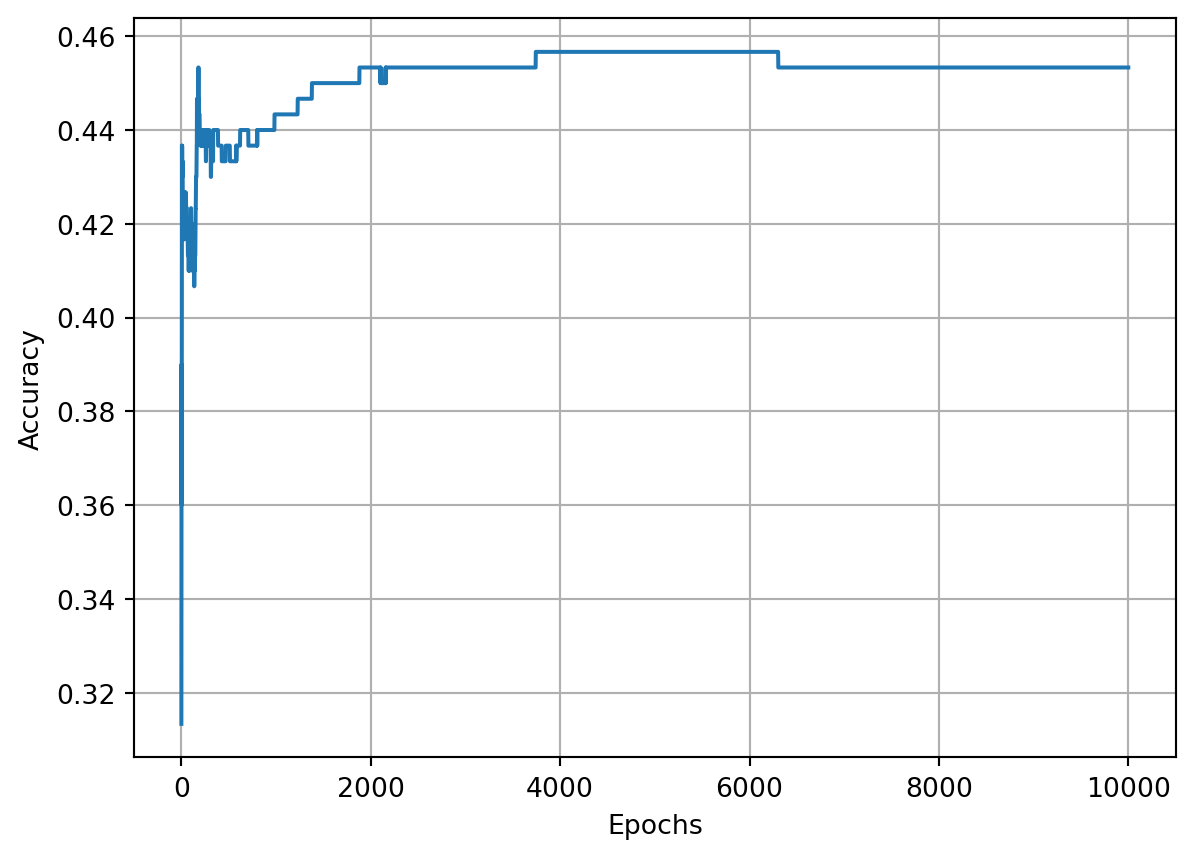
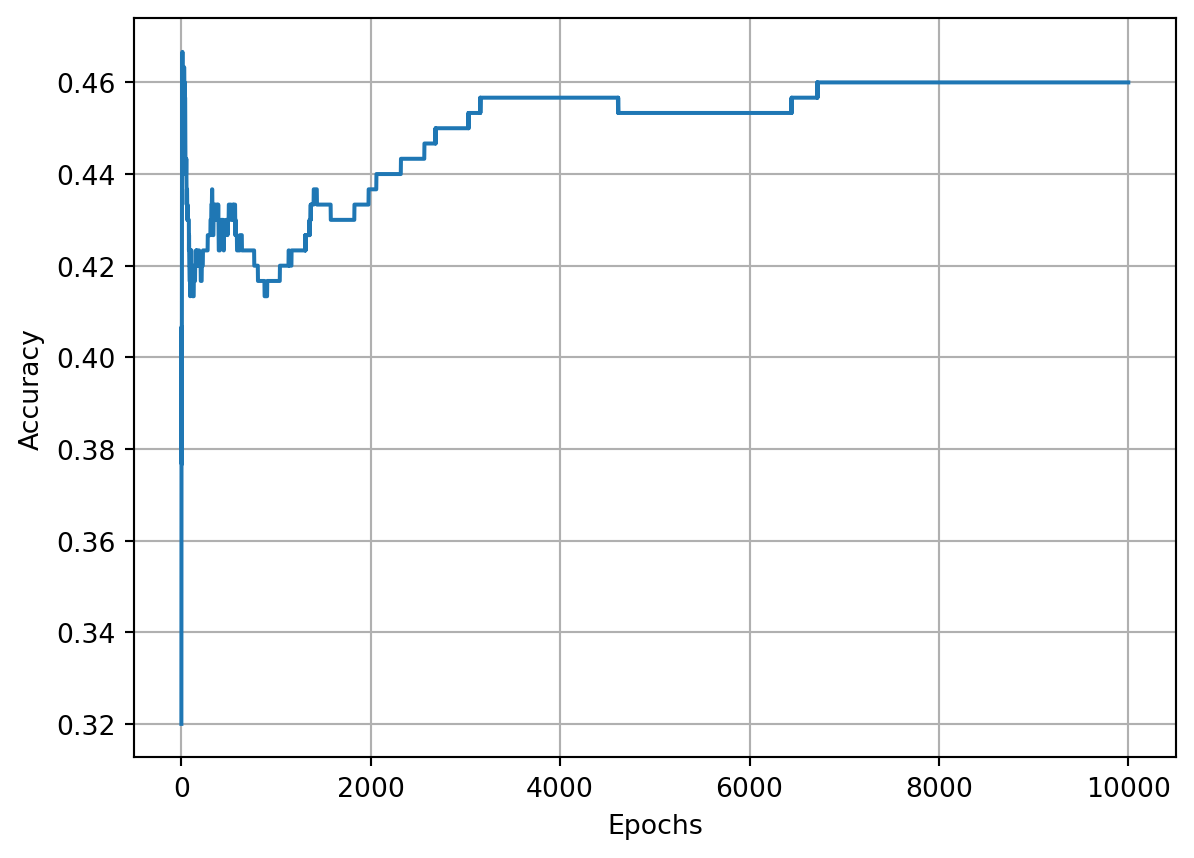
optimization

diff --git a/docs/posts/optimization_algorithms/index.html b/docs/posts/optimization_algorithms/index.html
@@ -201,7 +201,10 @@ pre > code.sourceCode > span > a:first-child::before { text-decoration: underlin
   <li><a href="#adding-momentum-to-the-sgdoptimizer-class" id="toc-adding-momentum-to-the-sgdoptimizer-class" class="nav-link" data-scroll-target="#adding-momentum-to-the-sgdoptimizer-class">Adding momentum to the <code>SGDOptimizer</code> class</a>
   <ul class="collapse">
   <li><a href="#adagrad" id="toc-adagrad" class="nav-link" data-scroll-target="#adagrad">AdaGrad</a></li>
-  <li><a href="#rmsprop" id="toc-rmsprop" class="nav-link" data-scroll-target="#rmsprop">RMSProp</a></li>
+  <li><a href="#rmsprop" id="toc-rmsprop" class="nav-link" data-scroll-target="#rmsprop">RMSProp</a>
+  <ul class="collapse">
+  <li><a href="#the-algorithm" id="toc-the-algorithm" class="nav-link" data-scroll-target="#the-algorithm">The Algorithm</a></li>
+  </ul></li>
   </ul></li>
   </ul>
 </nav>
@@ -645,7 +648,7 @@ w_{k+1} := w_k - \alpha_k \nabla \mathcal{L}(w_{k}) = w_k - \alpha_k \nabla L_i(
 <span id="cb11-25"><a href="#cb11-25" aria-hidden="true" tabindex="-1"></a>optimizer.update_params(dense1)</span>
 <span id="cb11-26"><a href="#cb11-26" aria-hidden="true" tabindex="-1"></a>optimizer.update_params(dense2)</span></code><button title="Copy to Clipboard" class="code-copy-button"><i class="bi"></i></button></pre></div>
 <div class="cell-output cell-output-stdout">
-<pre><code>Loss = 1.0986570280936756</code></pre>
+<pre><code>Loss = 1.098612317106315</code></pre>
 </div>
 </div>
 <p>This is everything we need to train our model!</p>
@@ -703,16 +706,16 @@ w_{k+1} := w_k - \alpha_k \nabla \mathcal{L}(w_{k}) = w_k - \alpha_k \nabla L_i(
 <span id="cb13-49"><a href="#cb13-49" aria-hidden="true" tabindex="-1"></a>    optimizer.update_params(dense2)</span></code><button title="Copy to Clipboard" class="code-copy-button"><i class="bi"></i></button></pre></div>
 <div class="cell-output cell-output-stdout">
 <pre><code>Epoch: 0, Loss:  1.099
-Epoch: 1000, Loss:  1.019
-Epoch: 2000, Loss:  0.894
-Epoch: 3000, Loss:  0.844
-Epoch: 4000, Loss:  0.786
-Epoch: 5000, Loss:  0.705
-Epoch: 6000, Loss:  0.682
-Epoch: 7000, Loss:  0.645
-Epoch: 8000, Loss:  0.515
-Epoch: 9000, Loss:  0.488
-Epoch: 10000, Loss:  0.458</code></pre>
+Epoch: 1000, Loss:  1.029
+Epoch: 2000, Loss:  0.921
+Epoch: 3000, Loss:  0.800
+Epoch: 4000, Loss:  0.947
+Epoch: 5000, Loss:  0.559
+Epoch: 6000, Loss:  0.546
+Epoch: 7000, Loss:  0.488
+Epoch: 8000, Loss:  0.451
+Epoch: 9000, Loss:  0.409
+Epoch: 10000, Loss:  0.424</code></pre>
 </div>
 </div>
 <p>Our neural network mostly stays stuck at around a loss of <span class="math inline">\(1.0\)</span> and later around <span class="math inline">\(0.85\)</span>-<span class="math inline">\(0.90\)</span> Given that this loss didn’t decrease much, we can assume that this learning rate being too high, also caused the model to get stuck in a <strong>local minimum</strong>, which we’ll learn more about soon. Iterating over more epochs, doesn’t seem helpful at this point, which tells us that we’re likely stuck with our optimization. Does this mean that this is the most we can get from our optimizer on this dataset?</p>
@@ -868,17 +871,17 @@ Epoch: 10000, Loss:  0.458</code></pre>
 <div class="cell" data-execution_count="16">
 <div class="sourceCode cell-code" id="cb20"><pre class="sourceCode python code-with-copy"><code class="sourceCode python"><span id="cb20-1"><a href="#cb20-1" aria-hidden="true" tabindex="-1"></a>acc_vals, loss_vals, lr_vals <span class="op">=</span> train(decay<span class="op">=</span><span class="fl">0.01</span>)</span></code><button title="Copy to Clipboard" class="code-copy-button"><i class="bi"></i></button></pre></div>
 <div class="cell-output cell-output-stdout">
-<pre><code>epoch: 0,                 acc : 0.313,                 loss:  1.099,                 lr : 1.0
-epoch: 1000,                 acc : 0.443,                 loss:  1.066,                 lr : 0.09099181073703366
-epoch: 2000,                 acc : 0.453,                 loss:  1.066,                 lr : 0.047641734159123386
-epoch: 3000,                 acc : 0.453,                 loss:  1.066,                 lr : 0.03226847370119393
-epoch: 4000,                 acc : 0.457,                 loss:  1.065,                 lr : 0.02439619419370578
-epoch: 5000,                 acc : 0.457,                 loss:  1.065,                 lr : 0.019611688566385566
-epoch: 6000,                 acc : 0.457,                 loss:  1.065,                 lr : 0.016396130513198885
-epoch: 7000,                 acc : 0.453,                 loss:  1.065,                 lr : 0.014086491055078181
-epoch: 8000,                 acc : 0.453,                 loss:  1.065,                 lr : 0.012347203358439314
-epoch: 9000,                 acc : 0.453,                 loss:  1.065,                 lr : 0.010990218705352238
-epoch: 10000,                 acc : 0.453,                 loss:  1.065,                 lr : 0.009901970492127933</code></pre>
+<pre><code>epoch: 0,                 acc : 0.320,                 loss:  1.099,                 lr : 1.0
+epoch: 1000,                 acc : 0.417,                 loss:  1.071,                 lr : 0.09099181073703366
+epoch: 2000,                 acc : 0.437,                 loss:  1.070,                 lr : 0.047641734159123386
+epoch: 3000,                 acc : 0.450,                 loss:  1.070,                 lr : 0.03226847370119393
+epoch: 4000,                 acc : 0.457,                 loss:  1.070,                 lr : 0.02439619419370578
+epoch: 5000,                 acc : 0.453,                 loss:  1.070,                 lr : 0.019611688566385566
+epoch: 6000,                 acc : 0.453,                 loss:  1.069,                 lr : 0.016396130513198885
+epoch: 7000,                 acc : 0.460,                 loss:  1.069,                 lr : 0.014086491055078181
+epoch: 8000,                 acc : 0.460,                 loss:  1.069,                 lr : 0.012347203358439314
+epoch: 9000,                 acc : 0.460,                 loss:  1.069,                 lr : 0.010990218705352238
+epoch: 10000,                 acc : 0.460,                 loss:  1.069,                 lr : 0.009901970492127933</code></pre>
 </div>
 </div>
 <div class="cell" data-execution_count="17">
@@ -905,7 +908,7 @@ epoch: 10000,                 acc : 0.453,                 loss:  1.065,        
 <span id="cb23-5"><a href="#cb23-5" aria-hidden="true" tabindex="-1"></a>plt.show()</span></code><button title="Copy to Clipboard" class="code-copy-button"><i class="bi"></i></button></pre></div>
 </details>
 <div class="cell-output cell-output-display">
-<p><img src="index_files/figure-html/cell-19-output-1.png" width="606" height="431"></p>
+<p><img src="index_files/figure-html/cell-19-output-1.png" width="606" height="433"></p>
 </div>
 </div>
 <div class="cell" data-execution_count="19">
@@ -925,17 +928,17 @@ epoch: 10000,                 acc : 0.453,                 loss:  1.065,        
 <div class="cell" data-execution_count="20">
 <div class="sourceCode cell-code" id="cb25"><pre class="sourceCode python code-with-copy"><code class="sourceCode python"><span id="cb25-1"><a href="#cb25-1" aria-hidden="true" tabindex="-1"></a>acc_vals, loss_vals, lr_vals <span class="op">=</span> train(decay<span class="op">=</span><span class="fl">1e-3</span>)</span></code><button title="Copy to Clipboard" class="code-copy-button"><i class="bi"></i></button></pre></div>
 <div class="cell-output cell-output-stdout">
-<pre><code>epoch: 0,                 acc : 0.307,                 loss:  1.099,                 lr : 1.0
-epoch: 1000,                 acc : 0.420,                 loss:  1.063,                 lr : 0.5002501250625312
-epoch: 2000,                 acc : 0.473,                 loss:  1.029,                 lr : 0.33344448149383127
-epoch: 3000,                 acc : 0.517,                 loss:  0.968,                 lr : 0.25006251562890724
-epoch: 4000,                 acc : 0.577,                 loss:  0.908,                 lr : 0.2000400080016003
-epoch: 5000,                 acc : 0.593,                 loss:  0.881,                 lr : 0.16669444907484582
-epoch: 6000,                 acc : 0.620,                 loss:  0.851,                 lr : 0.1428775539362766
-epoch: 7000,                 acc : 0.650,                 loss:  0.817,                 lr : 0.12501562695336915
-epoch: 8000,                 acc : 0.663,                 loss:  0.786,                 lr : 0.11112345816201799
-epoch: 9000,                 acc : 0.673,                 loss:  0.754,                 lr : 0.1000100010001
-epoch: 10000,                 acc : 0.680,                 loss:  0.723,                 lr : 0.09091735612328393</code></pre>
+<pre><code>epoch: 0,                 acc : 0.317,                 loss:  1.099,                 lr : 1.0
+epoch: 1000,                 acc : 0.413,                 loss:  1.058,                 lr : 0.5002501250625312
+epoch: 2000,                 acc : 0.420,                 loss:  1.052,                 lr : 0.33344448149383127
+epoch: 3000,                 acc : 0.447,                 loss:  1.034,                 lr : 0.25006251562890724
+epoch: 4000,                 acc : 0.487,                 loss:  1.000,                 lr : 0.2000400080016003
+epoch: 5000,                 acc : 0.507,                 loss:  0.966,                 lr : 0.16669444907484582
+epoch: 6000,                 acc : 0.537,                 loss:  0.936,                 lr : 0.1428775539362766
+epoch: 7000,                 acc : 0.547,                 loss:  0.910,                 lr : 0.12501562695336915
+epoch: 8000,                 acc : 0.580,                 loss:  0.886,                 lr : 0.11112345816201799
+epoch: 9000,                 acc : 0.600,                 loss:  0.864,                 lr : 0.1000100010001
+epoch: 10000,                 acc : 0.607,                 loss:  0.841,                 lr : 0.09091735612328393</code></pre>
 </div>
 </div>
 <div class="cell" data-execution_count="21">
@@ -1208,34 +1211,34 @@ R_j = \frac{R-\sigma_j I}{\sigma_1 - \sigma_2}
 <div class="cell" data-execution_count="26">
 <div class="sourceCode cell-code" id="cb32"><pre class="sourceCode python code-with-copy"><code class="sourceCode python"><span id="cb32-1"><a href="#cb32-1" aria-hidden="true" tabindex="-1"></a>acc_vals, loss_vals, lr_vals <span class="op">=</span> train(decay<span class="op">=</span><span class="fl">1e-3</span>, momentum<span class="op">=</span><span class="fl">0.5</span>)</span></code><button title="Copy to Clipboard" class="code-copy-button"><i class="bi"></i></button></pre></div>
 <div class="cell-output cell-output-stdout">
-<pre><code>epoch: 0,                 acc : 0.370,                 loss:  1.099,                 lr : 1.0
-epoch: 1000,                 acc : 0.510,                 loss:  0.947,                 lr : 0.5002501250625312
-epoch: 2000,                 acc : 0.513,                 loss:  0.889,                 lr : 0.33344448149383127
-epoch: 3000,                 acc : 0.623,                 loss:  0.865,                 lr : 0.25006251562890724
-epoch: 4000,                 acc : 0.673,                 loss:  0.743,                 lr : 0.2000400080016003
-epoch: 5000,                 acc : 0.677,                 loss:  0.693,                 lr : 0.16669444907484582
-epoch: 6000,                 acc : 0.743,                 loss:  0.584,                 lr : 0.1428775539362766
-epoch: 7000,                 acc : 0.787,                 loss:  0.532,                 lr : 0.12501562695336915
-epoch: 8000,                 acc : 0.793,                 loss:  0.499,                 lr : 0.11112345816201799
-epoch: 9000,                 acc : 0.820,                 loss:  0.469,                 lr : 0.1000100010001
-epoch: 10000,                 acc : 0.830,                 loss:  0.443,                 lr : 0.09091735612328393</code></pre>
+<pre><code>epoch: 0,                 acc : 0.277,                 loss:  1.099,                 lr : 1.0
+epoch: 1000,                 acc : 0.507,                 loss:  0.981,                 lr : 0.5002501250625312
+epoch: 2000,                 acc : 0.520,                 loss:  0.916,                 lr : 0.33344448149383127
+epoch: 3000,                 acc : 0.570,                 loss:  0.862,                 lr : 0.25006251562890724
+epoch: 4000,                 acc : 0.603,                 loss:  0.836,                 lr : 0.2000400080016003
+epoch: 5000,                 acc : 0.590,                 loss:  0.808,                 lr : 0.16669444907484582
+epoch: 6000,                 acc : 0.680,                 loss:  0.693,                 lr : 0.1428775539362766
+epoch: 7000,                 acc : 0.727,                 loss:  0.657,                 lr : 0.12501562695336915
+epoch: 8000,                 acc : 0.743,                 loss:  0.619,                 lr : 0.11112345816201799
+epoch: 9000,                 acc : 0.770,                 loss:  0.555,                 lr : 0.1000100010001
+epoch: 10000,                 acc : 0.787,                 loss:  0.521,                 lr : 0.09091735612328393</code></pre>
 </div>
 </div>
 <p>The model achieved the lowest loss and the highest accuracy that we’ve seen so far. Can we do better? Sure, we can! Let’s try to set the momentum to <span class="math inline">\(0.9\)</span>:</p>
 <div class="cell" data-execution_count="27">
 <div class="sourceCode cell-code" id="cb34"><pre class="sourceCode python code-with-copy"><code class="sourceCode python"><span id="cb34-1"><a href="#cb34-1" aria-hidden="true" tabindex="-1"></a>acc_vals, loss_vals, lr_vals <span class="op">=</span> train(decay<span class="op">=</span><span class="fl">1e-3</span>, momentum<span class="op">=</span><span class="fl">0.9</span>)</span></code><button title="Copy to Clipboard" class="code-copy-button"><i class="bi"></i></button></pre></div>
 <div class="cell-output cell-output-stdout">
-<pre><code>epoch: 0,                 acc : 0.363,                 loss:  1.099,                 lr : 1.0
-epoch: 1000,                 acc : 0.683,                 loss:  0.602,                 lr : 0.5002501250625312
-epoch: 2000,                 acc : 0.723,                 loss:  0.550,                 lr : 0.33344448149383127
-epoch: 3000,                 acc : 0.720,                 loss:  0.543,                 lr : 0.25006251562890724
-epoch: 4000,                 acc : 0.720,                 loss:  0.540,                 lr : 0.2000400080016003
-epoch: 5000,                 acc : 0.720,                 loss:  0.538,                 lr : 0.16669444907484582
-epoch: 6000,                 acc : 0.720,                 loss:  0.536,                 lr : 0.1428775539362766
-epoch: 7000,                 acc : 0.720,                 loss:  0.535,                 lr : 0.12501562695336915
-epoch: 8000,                 acc : 0.720,                 loss:  0.534,                 lr : 0.11112345816201799
-epoch: 9000,                 acc : 0.720,                 loss:  0.534,                 lr : 0.1000100010001
-epoch: 10000,                 acc : 0.720,                 loss:  0.533,                 lr : 0.09091735612328393</code></pre>
+<pre><code>epoch: 0,                 acc : 0.350,                 loss:  1.099,                 lr : 1.0
+epoch: 1000,                 acc : 0.913,                 loss:  0.240,                 lr : 0.5002501250625312
+epoch: 2000,                 acc : 0.923,                 loss:  0.183,                 lr : 0.33344448149383127
+epoch: 3000,                 acc : 0.927,                 loss:  0.163,                 lr : 0.25006251562890724
+epoch: 4000,                 acc : 0.923,                 loss:  0.153,                 lr : 0.2000400080016003
+epoch: 5000,                 acc : 0.923,                 loss:  0.148,                 lr : 0.16669444907484582
+epoch: 6000,                 acc : 0.923,                 loss:  0.145,                 lr : 0.1428775539362766
+epoch: 7000,                 acc : 0.927,                 loss:  0.143,                 lr : 0.12501562695336915
+epoch: 8000,                 acc : 0.930,                 loss:  0.141,                 lr : 0.11112345816201799
+epoch: 9000,                 acc : 0.930,                 loss:  0.140,                 lr : 0.1000100010001
+epoch: 10000,                 acc : 0.930,                 loss:  0.139,                 lr : 0.09091735612328393</code></pre>
 </div>
 </div>
 <section id="adagrad" class="level2">
@@ -1243,9 +1246,11 @@ epoch: 10000,                 acc : 0.720,                 loss:  0.533,        
 <p>In real-world datasets, some input features are sparse and some features are dense. If we use the same learning rate <span class="math inline">\(\alpha\)</span> for all the weights, parameters associated with sparse features receive meaningful updates only when these features occur. Given a decreasing learning rate, we might end up with a situation where parameters for dense features converge rather quickly to their optimal values, whereas for sparse features, we are still short of observing them sufficiently frequently before their optimal values can be determined. In other words, the learning rate decreases too slowly for dense features and too quickly for sparse features.</p>
 <p>The update rule for adaptive step-size gradient descent is:</p>
 <p><span class="math display">\[\begin{align*}
-{w}_{t+1} &amp; {w}_{t} - \frac{\alpha}{\sqrt{G_t + \epsilon}}\odot g_t
+\mathbf{g}_t &amp;= \frac{\partial \mathcal L}{\partial \mathbf{w}}\\
+\mathbf{s}_t &amp;= \mathbf{s}_{t-1} + \mathbf{g}_{t}^2 \\
+\mathbf{w}_t &amp;= \mathbf{w}_{t-1} + \frac{\alpha}{\sqrt{\mathbf{s}_t+\epsilon}}\cdot \mathbf{g}_t
 \end{align*}\]</span></p>
-<p>where <span class="math inline">\(G(t)\)</span> contains the sum of the squares of the past gradients. $Here the operations are applied coordinate-wise. As before, <span class="math inline">\(\alpha\)</span> is the learning rate and <span class="math inline">\(\epsilon\)</span> is an additive constant that ensures that we do not divide by <span class="math inline">\(0\)</span>.</p>
+<p>Here the operations are applied coordinate-wise. So, the jacobian <span class="math inline">\(\mathbf{g}_t^2\)</span> has entries <span class="math inline">\(g_t^2\)</span>. As before, <span class="math inline">\(\alpha\)</span> is the learning rate and <span class="math inline">\(\epsilon\)</span> is an additive constant that ensures that we do not divide by <span class="math inline">\(0\)</span>. Thus, the learning rate for features whose weights receive frequent updates is decreased faster, whilst for those features, whose weights receive infrequent updates, it is decreased slower.</p>
 <p>Thus, Adagrad decreases the learning-rate dynamically on a per-coordinate basis.</p>
 <div class="cell" data-execution_count="28">
 <div class="sourceCode cell-code" id="cb36"><pre class="sourceCode python code-with-copy"><code class="sourceCode python"><span id="cb36-1"><a href="#cb36-1" aria-hidden="true" tabindex="-1"></a><span class="kw">class</span> AdagradOptimizer:</span>
@@ -1295,8 +1300,17 @@ epoch: 10000,                 acc : 0.720,                 loss:  0.533,        
 </section>
 <section id="rmsprop" class="level2">
 <h2 class="anchored" data-anchor-id="rmsprop">RMSProp</h2>
+<p>One of the key issues of Adagrad is that the learning rate decreases at a predefined schedule effectively at a rate proportional <span class="math inline">\(\frac{1}{\sqrt{t}}\)</span>. While this is generally appropriate for convex problems, it might not be ideal for nonconvex ones, such as those encountered in deep learning. Yet, the coordinate-wise adaptivity of Adagrad is highly desirable as a preconditioner.</p>
+<p>Tieleman and Hinton(https://www.d2l.ai/chapter_references/zreferences.html#id284)[2012] have proposed the RMSProp algorithm as a simple fix to decouple the rate scheduling from coordinate adaptive learning rates. The issue is that the squares of the gradient <span class="math inline">\(\mathbf{g}_t\)</span> keeps accumulating into the state vector <span class="math inline">\(\mathbf{s}_t = \mathbf{s}_{t-1} + \mathbf{g}_t^2\)</span>. As a result, <span class="math inline">\(\mathbf{s}_t\)</span> keeps on growing without bounds, essentially linearly as the algorithm converges.</p>
+<section id="the-algorithm" class="level3">
+<h3 class="anchored" data-anchor-id="the-algorithm">The Algorithm</h3>
+<p>The update rule for the RMSProp algorithm is as follows:</p>
+<p><span class="math display">\[\begin{align*}
+\mathbf{s}_t &amp;= \gamma \mathbf{s}_{t-1} + (1- \gamma)\mathbf{g}_t^2
+\end{align*}\]</span></p>
 
 
+</section>
 </section>
 </section>
 

diff --git a/docs/index.html b/docs/index.html
@@ -185,7 +185,7 @@ Jun 20, 2024
 </div>
 </a>
 </div>
-<div class="g-col-1" data-index="1" data-categories="Machine Learning" data-listing-date-sort="1717970400000" data-listing-file-modified-sort="1719148902820" data-listing-date-modified-sort="NaN" data-listing-reading-time-sort="34">
+<div class="g-col-1" data-index="1" data-categories="Machine Learning" data-listing-date-sort="1717970400000" data-listing-file-modified-sort="1719212425418" data-listing-date-modified-sort="NaN" data-listing-reading-time-sort="35">
 <a href="./posts/optimization_algorithms/index.html" class="quarto-grid-link">
 <div class="quarto-grid-item card h-100 card-left">
 <p class="card-img-top">
